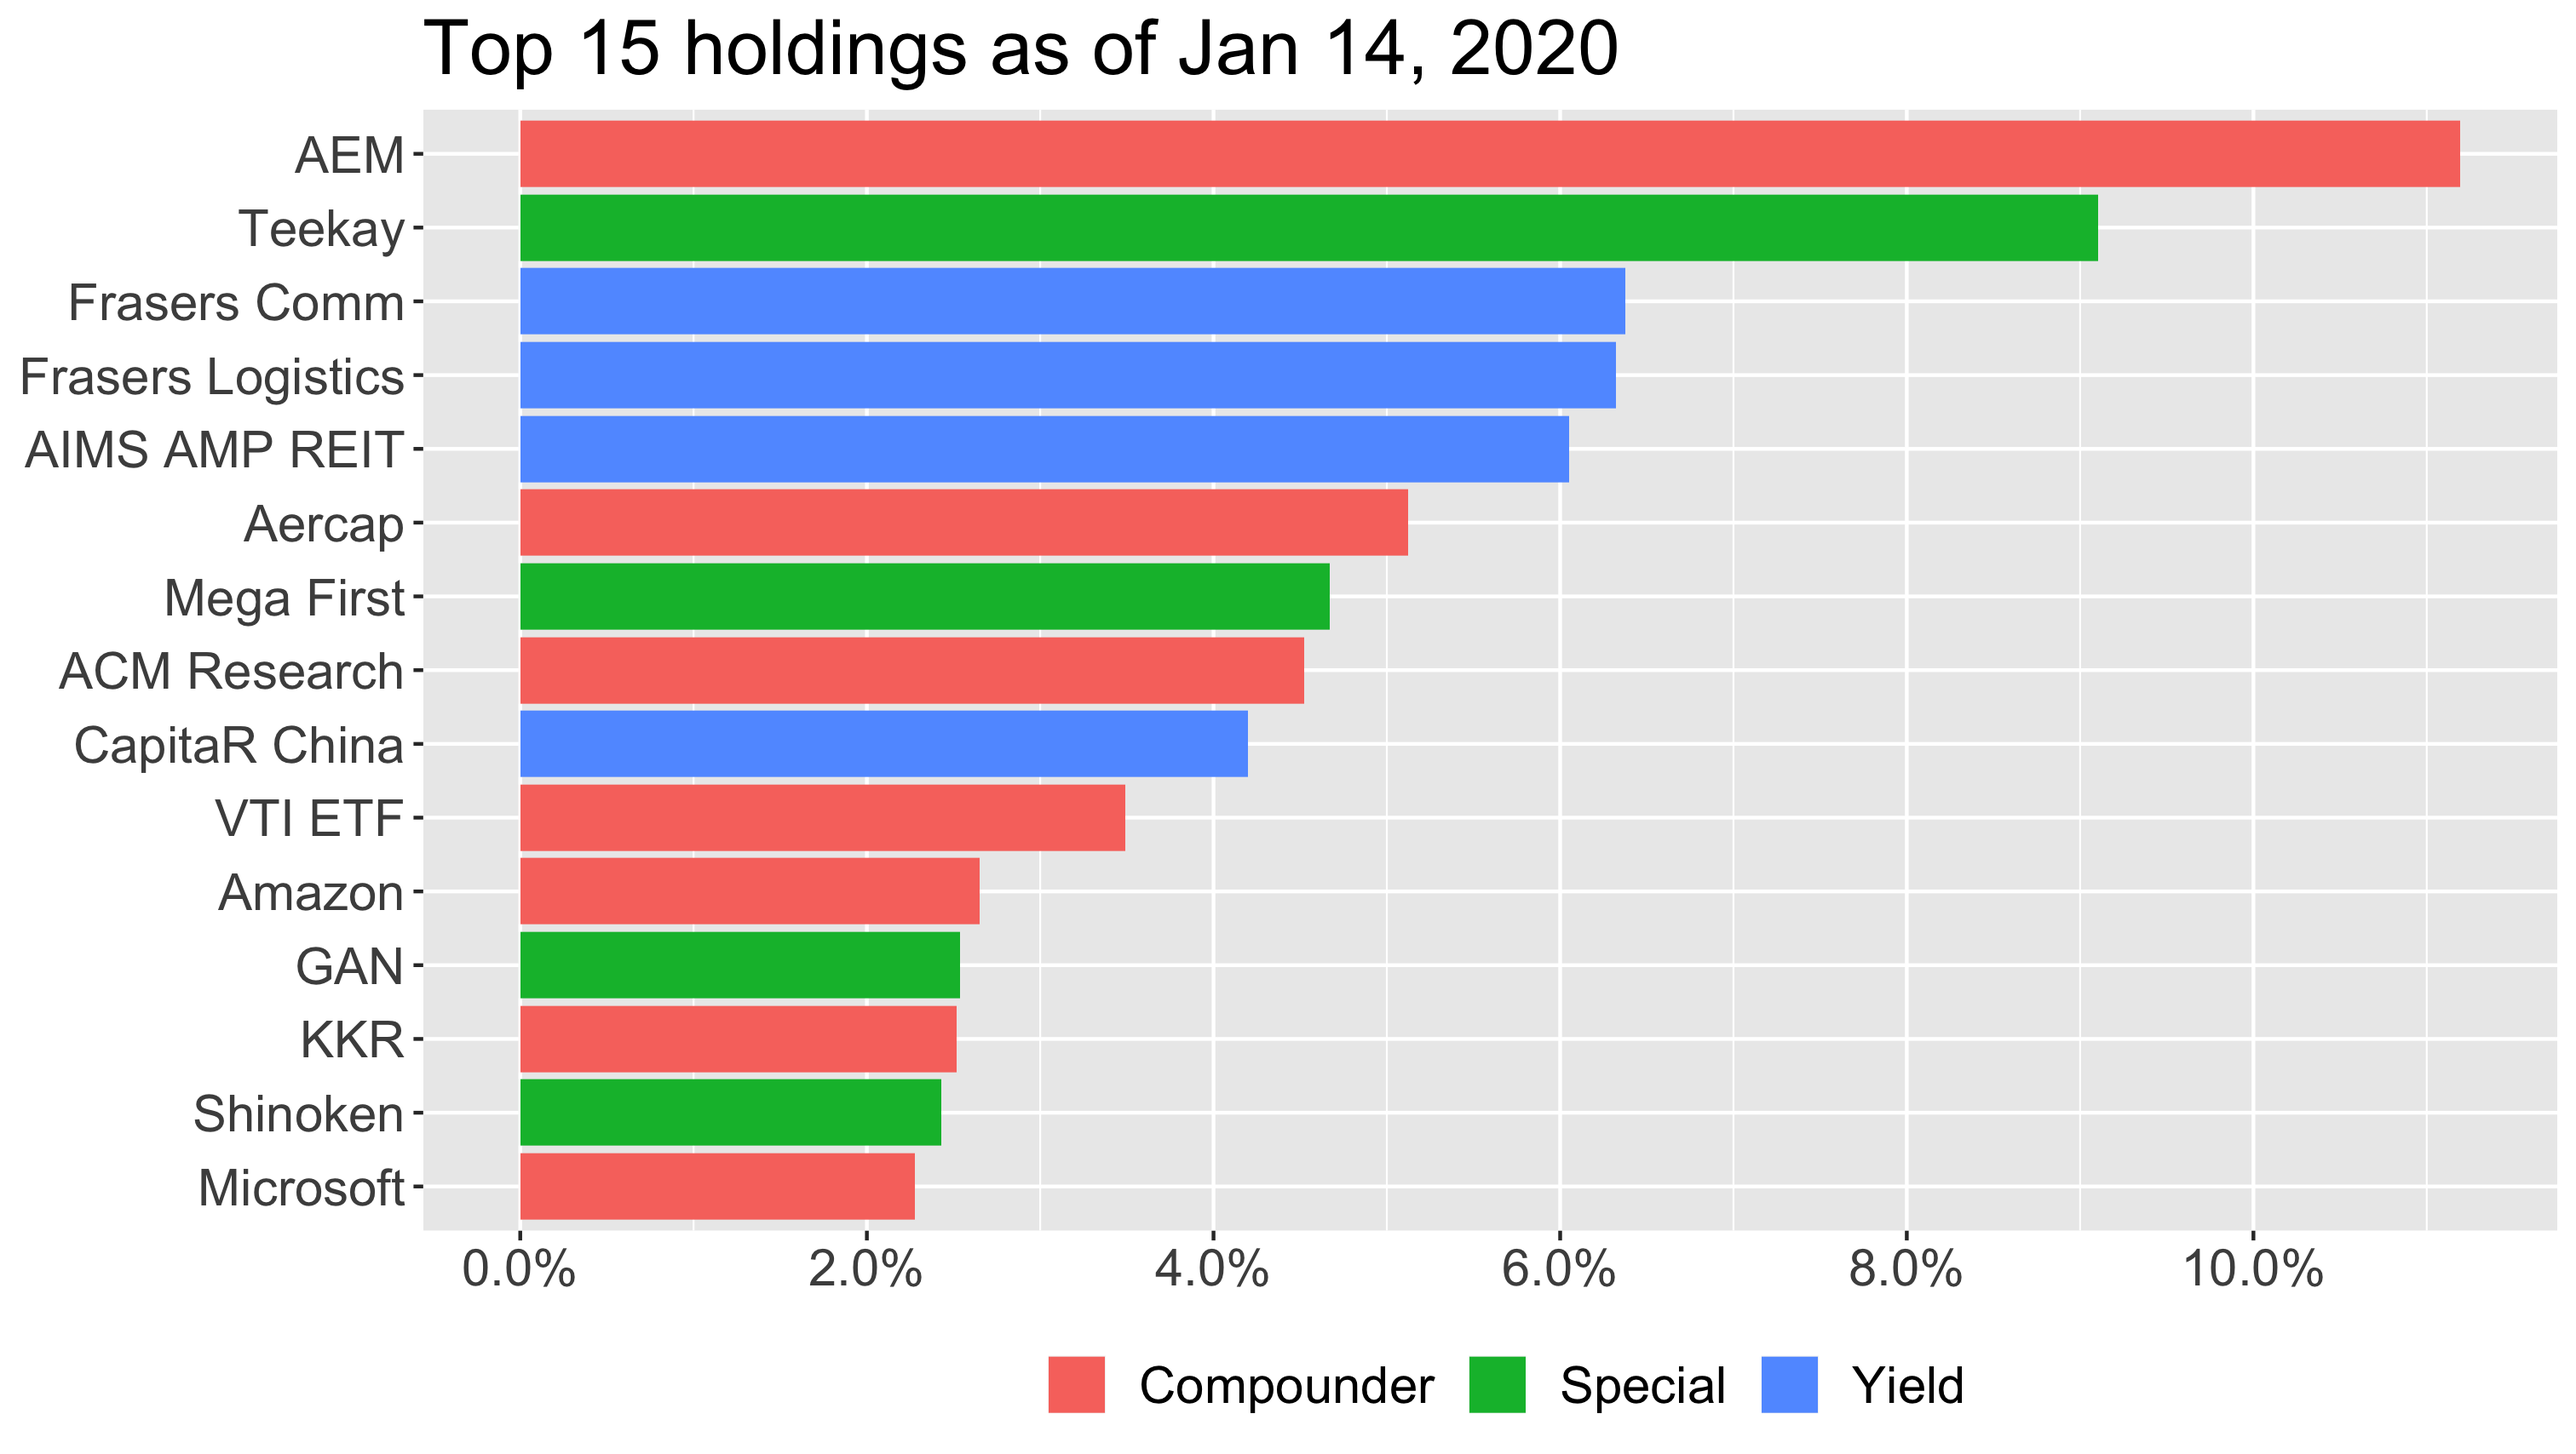
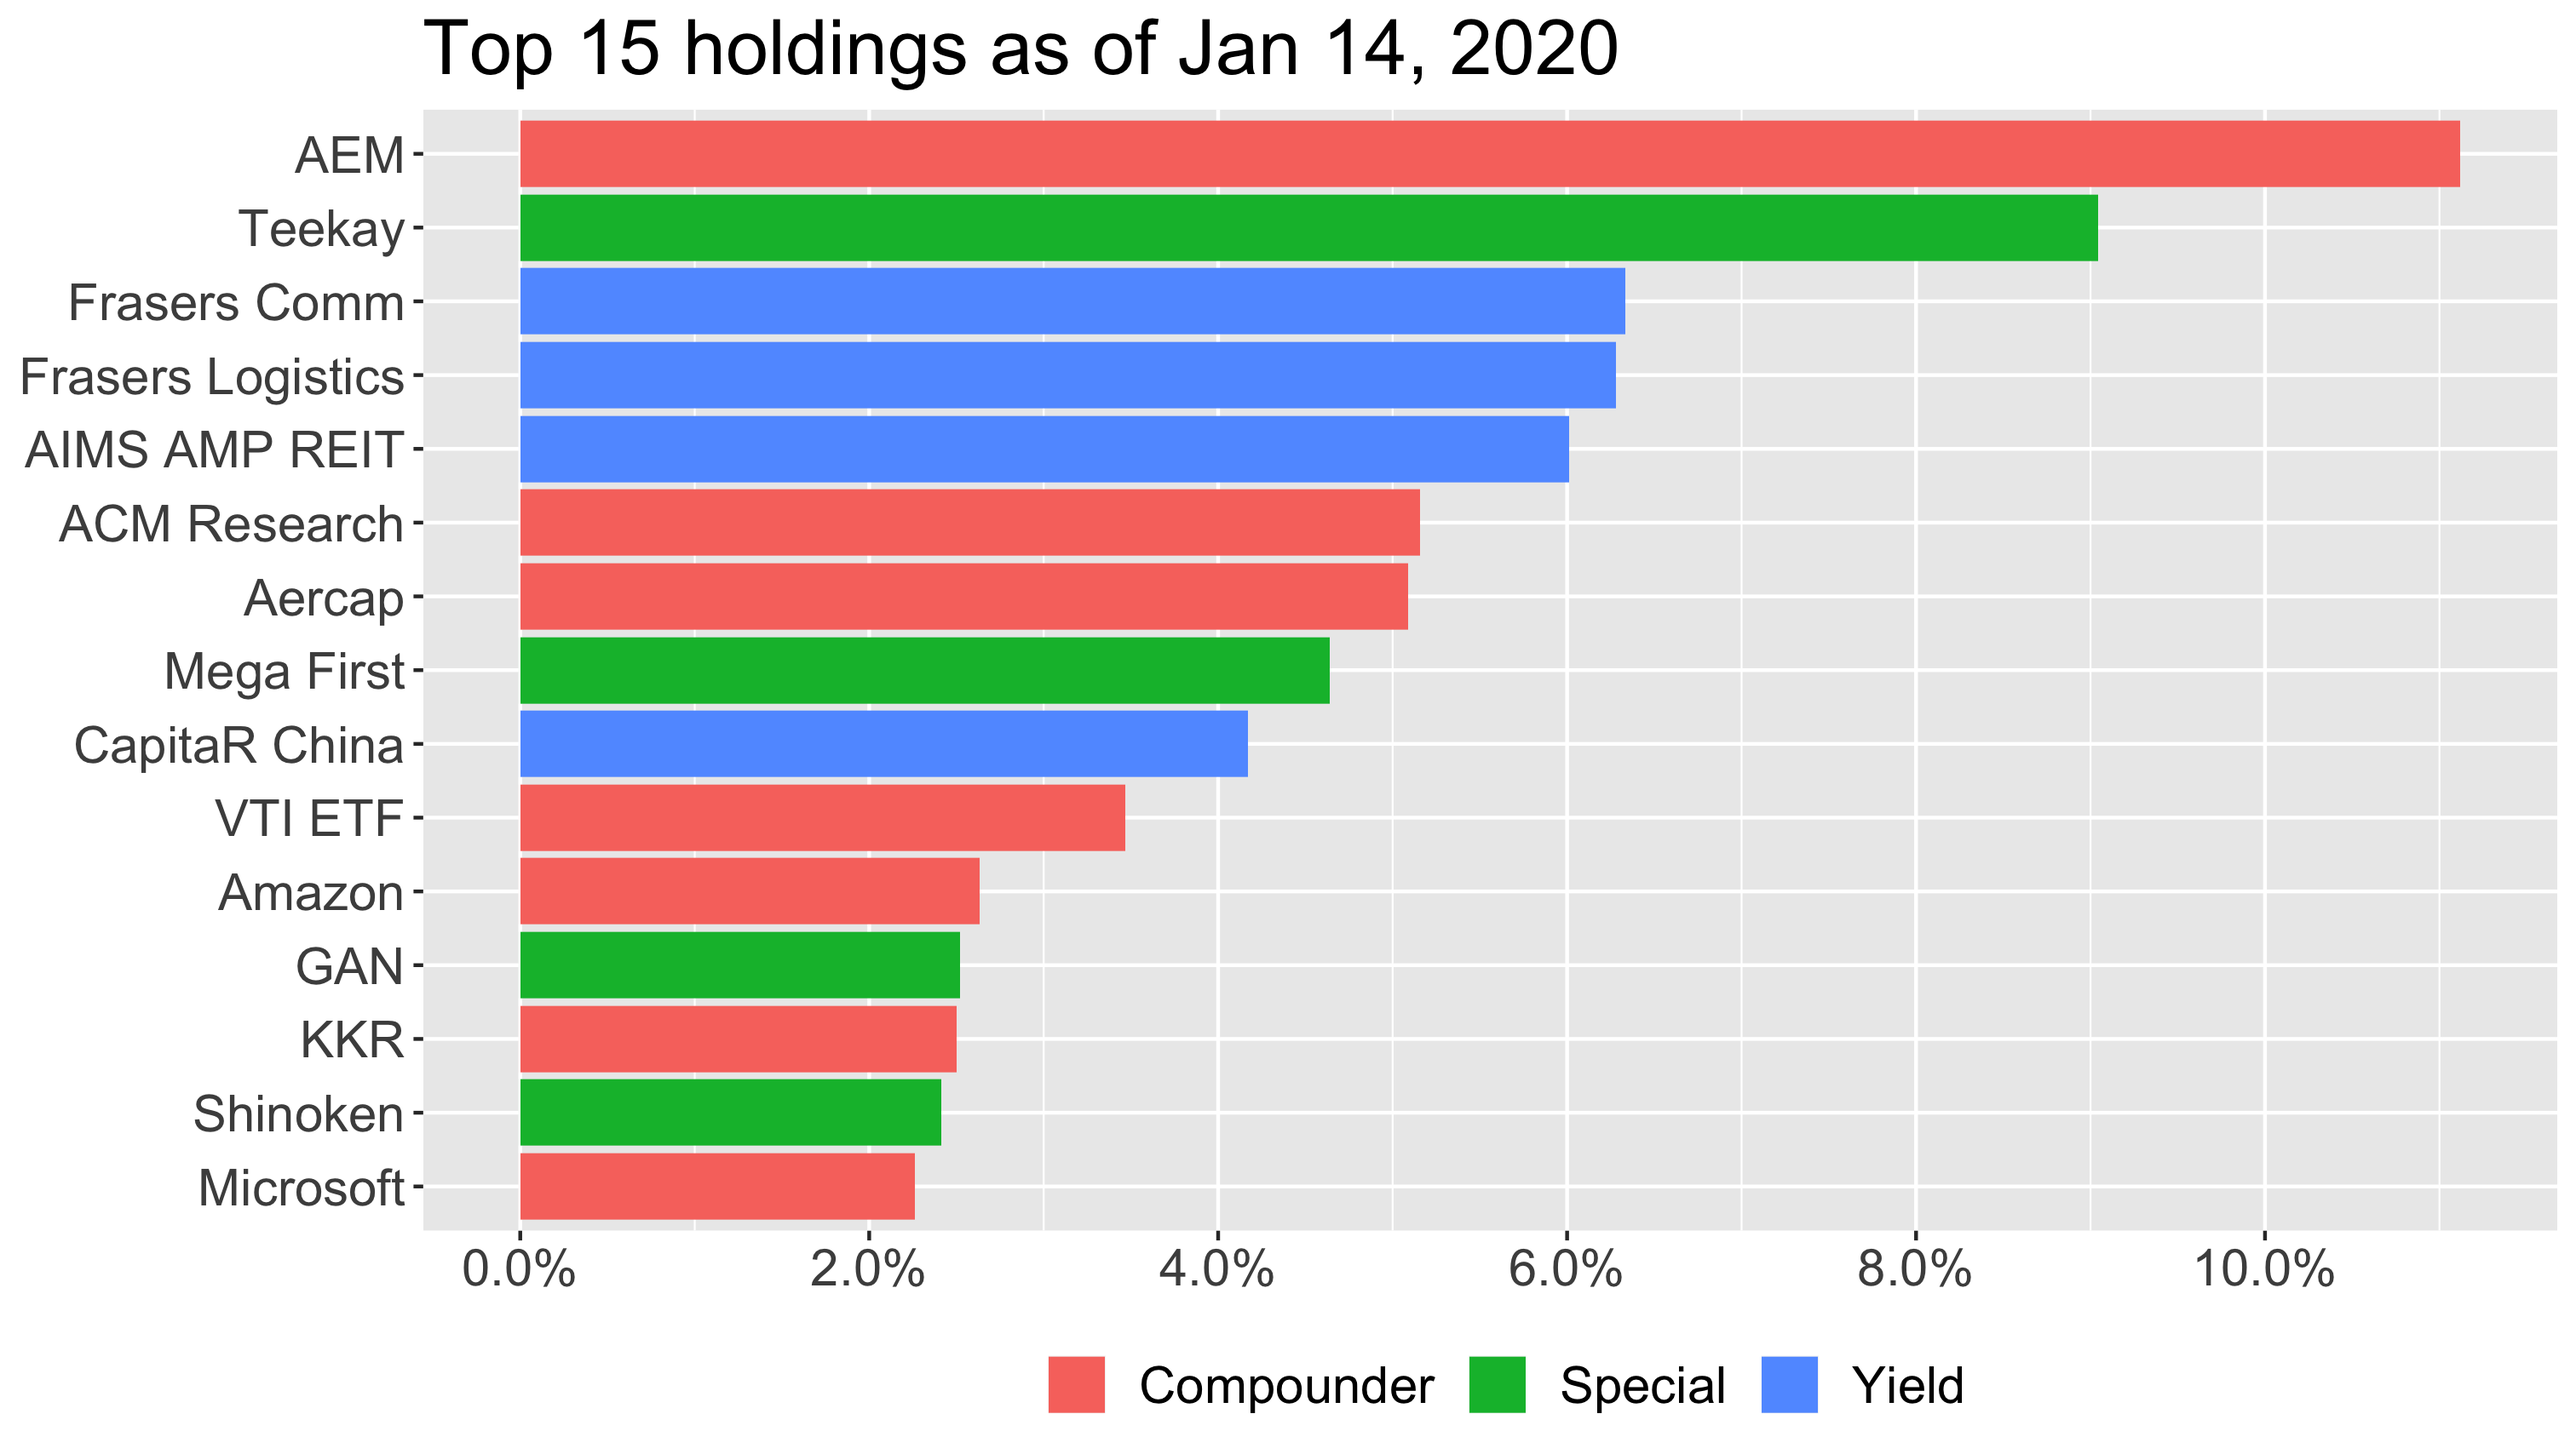
acmr

diff --git a/holdings/index.html b/holdings/index.html
@@ -43,12 +43,12 @@
         <p><i>"Know what you own and why you own it."</i> In that spirit, here are a few thoughts on the top holdings:</p>
         <p><b>AEM Holdings (US$375mn): </b>Supplies automated testers and MEMS testers to Intel. PE investor Novo Tellus has a strong track record of getting the right people in to run businesses. Revenue growth continues at about 18% CAGR, with some margin decline from the production ramp. About 33% capacity expansion, which indicates a highly secure customer order (they opened a new floor on their factory for the first time ever). About 25% upside from here if things continue to break right. Trades at 11.1x P/E, with a 2% dividend yield. And yet - why can't it trade at 13-15x like most semiconductor-related companies do? Why not 17x? This is before accounting for any earnings expansion.</p>
         <p><b>Teekay Tankers (US$772mn): </b>A fairly newish position, predicated on a spike in tanker rates, and supply disruption due to the IMO 2020 regulations. Shipping has been in a 10-year bear market now, and stocks have already moved anywhere from 50–100% year to date, but they could explode upwards due to the highly leveraged nature of the industry. Shippers mostly have high fixed costs, so any small increase in day charter rates fall directly to the bottom line. Long lead time - it takes 2-3 years to deliver a ship - so supply is terribly constrained for now. Teekay only has one VLCC, but specializes in the Aframax and Suezmax sectors (mid-sized tankers). Teekay Tankers trades at 0.8x P/B, so there’s still considerable upside, despite us being somewhat late to the rally. In terms of valuation, if rates persist, TNK should conservatively do about 45% FCF yield this year (not a typo). About $2bn EV, so about 5x EV/EBITDA, and could retire all debt in two years. If trends continue, 2–3x type of returns are in play here. </p>
-        <p><b>AIMS Apac REIT (US$750mn): </b>A Singapore-focused industrial REIT. Although it’s ex-growth, it’s among the cheapest of its peers at 1.1x P/B and 7.0% dividend yield. I see some opportunity for rental uplift from conversion of industrial space to other uses (e.g. lifestyle activities). Not much to say here, should be happy if the share price goes nowhere while picking a 7% dividend.</p>
+        <p><b>AIMS APAC REIT (US$750mn): </b>A Singapore-focused industrial REIT. Although it’s ex-growth, it’s among the cheapest of its peers at 1.1x P/B and 7.0% dividend yield. I see some opportunity for rental uplift from conversion of industrial space to other uses (e.g. lifestyle activities). Not much to say here, should be happy if the share price goes nowhere while picking a 7% dividend.</p>
         <p><b>Frasers Commercial Trust (US$1.1bn) and Frasers Logistics & Industrial Trust (US$2.1bn): </b>Agreed to merge recently, creating a US$3bn behemoth. Larger REITs tend to enjoy lower funding costs, so this creates more firepower for acquisitions. FCOT used to be the most conservatively managed Singapore-focused office property trust, but has since become a bit more diversified. By NAV, it’s roughly 55% Singapore, 38% Australia and 7% UK; by income the split is 41%/50%/9%. There’s some potential for upward rental reversions from China Square Central as the leases expire and the area’s redevelopment continues. Pretty fairly valued at 1.05x P/B with a 5.9% dividend yield. FLT owns 81 warehouses in Australia and Europe. Pretty strong operational metrics, but hit by FX weakness. DPU is growing 4% in AUD terms, but shrinking 3% in SGD terms.</p>
         <p><b>Mega First Corp Bhd (US$520mn): </b>Malaysian construction company with ties to IJM that has completed construction on hydroelectric power plant in Laos. Fee income will start flowing in January (although the river water won't). This is a bit of a "bet on the jockey" play, with an impressive CEO with considerable operating experience. At least 25-33% returns at stake here as Don Sahong revenues come on stream. We are looking at a potential tripling of earnings from 2019 to 2020, with a highly sustainable 6% dividend yield to follow. CEO Goh Nan Kioh was previously with IJM, Dominant Semiconductor and once had a 50% stake in Cambrew, the brewers of Angkor Beer, the most popular beer in Cambodia. This dam could be his swansong, and he's likely to want to manage it well.</p>
         <p><b>CapitaRetail China Trust (US$1.5bn): </b>A China-focused retail REIT, trading at 1.0x P/B with a 6.3% dividend yield. Really the only REITs worth owning are the ones by Mapletree, Capitaland and Frasers.</p>
         <p><b>AerCap Holdings (US$8.1bn): </b>A capital allocation play, AerCap is the world’s largest independent aircraft leaser, after the 2013 acquisition of ILFC from AIG. It owns and manages 1,040 aircraft, compared to GE Capital’s 1,300. AerCap remains larger by revenue as it has a higher quality portfolio of aircraft and clients. The industry continues to grow — with 40% of the aircraft market now on rental, compared to 20% a decade ago. Valuation undemanding — 7.1x P/E, and 0.9x P/B. Low valuation a result of investor perception of a volatile aviation industry (true, but this mostly hits airlines). AerCap locks in leases, with a WALE of 7 years. Key risk is credit profile of its customers, but AerCap benefits from higher-quality blue-chip customer base. In an industry downturn, expect budget airlines to go bust, and AerCap could even benefit by picking off competitors. Management are strong capital allocators, and continue to buy back shares. Probably looking at ~12-15% CAGR returns here for not much work. A much smaller and worse-run competitor, Aircastle, was recently taken private by Marubeni at 1.2x P/B, and AerCap should trade higher than that. The kicker here is if the company is acquired by a larger conglomerate with low funding costs, to start juicing spreads. </p>
-        <p><b>ACM Research (US$300mn): </b>Supplier of wafer-cleaning equipment to the DRAM industry. Largest customers are SK Hynix and an undisclosed Chinese DRAM maker (I think Changxin Memory Technologies, or CXMT). Given the Chinese government's intention to build out its own memory industry, expect a bonanza of capex in this space. Revenues were basically flat from 2015 to 2017, then doubled in 2018, and grew another 40% in 2019, with earnings tripling. We've seen this story play out many times in the semiconductor space - where a niche player gains a toe-hold, delivers a quality product, then expands its footprint within its customer base. Pretty soon, it becomes industry standard. Best of all in the semi equipment space - most of the costs are R&D expense to engineers, so sales growth drops to bottom line and ROIC can potentially explode. Reminds me of Lam Research in the early innings. Very strong management quality, including ex-TSMC CTO on board and several ex-Intel executives. CEO David H. Wang is totally committed to the company, having founded it in 1998 and toiling away in obscurity for 20+ years. 18x P/E, but earnings could surprise to the upside. This investment ticks so many boxes that my instinctive reaction was to be highly skeptical: (1) bet on the jockey; (2) undiscovered small cap; (3) growth; (4) quality; (5) valuation; (6) structural trend. If they get to US$50mn in net income, will be a billion-dollar stock.</p>
+        <p><b>ACM Research (US$440mn): </b>Supplier of wafer-cleaning equipment to the DRAM industry. Largest customers are SK Hynix and an undisclosed Chinese DRAM maker (I think Changxin Memory Technologies, or CXMT). Given the Chinese government's intention to build out its own memory industry, expect a bonanza of capex in this space. Revenues were basically flat from 2015 to 2017, then doubled in 2018, and grew another 40% in 2019, with earnings tripling. We've seen this story play out many times in the semiconductor space - where a niche player gains a toe-hold, delivers a quality product, then expands its footprint within its customer base. Pretty soon, it becomes industry standard. Best of all in the semi equipment space - most of the costs are R&D expense to engineers, so sales growth drops to bottom line and ROIC can potentially explode. Reminds me of Lam Research in the early innings. Very strong management quality, including ex-TSMC CTO on board and several ex-Intel executives. CEO David H. Wang is totally committed to the company, having founded it in 1998 and toiling away in obscurity for 20+ years. 18x P/E, but earnings could surprise to the upside. This investment ticks so many boxes that my instinctive reaction was to be highly skeptical: (1) bet on the jockey; (2) undiscovered small cap; (3) growth; (4) quality; (5) valuation; (6) structural trend. If they get to US$50mn in net income, will be a billion-dollar stock.</p>
         <p><b>Vanguard Total Market Index ETF: </b>I have a lot of thoughts on the merits of holding a total market index as a cash proxy instead of cash... it's a lengthy subject that's worth a more in-depth discussion some other time.</p>
     </div>
 
